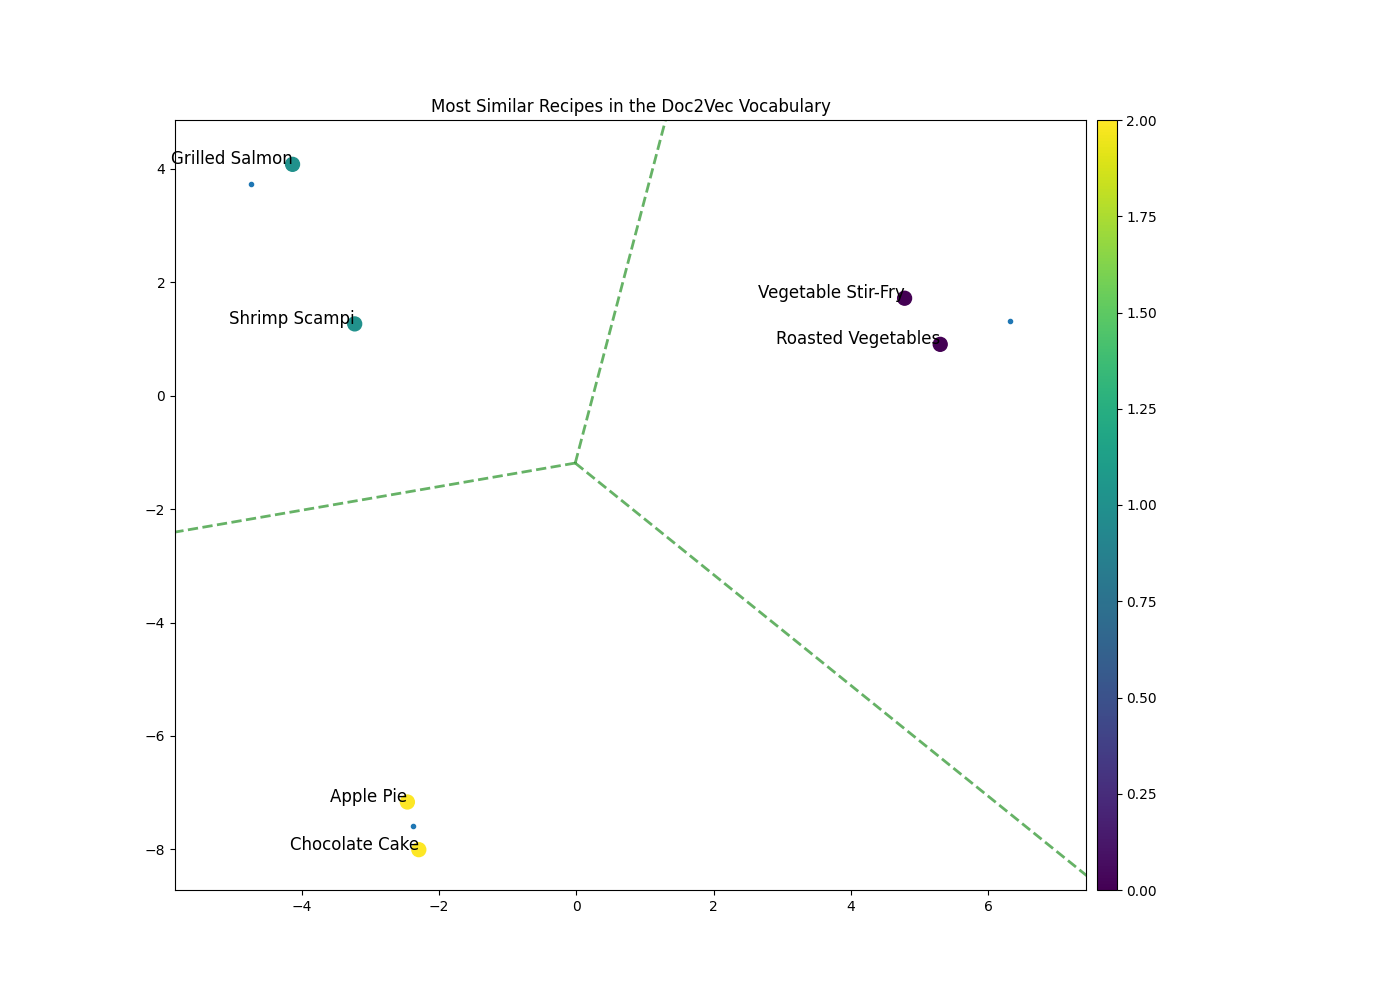
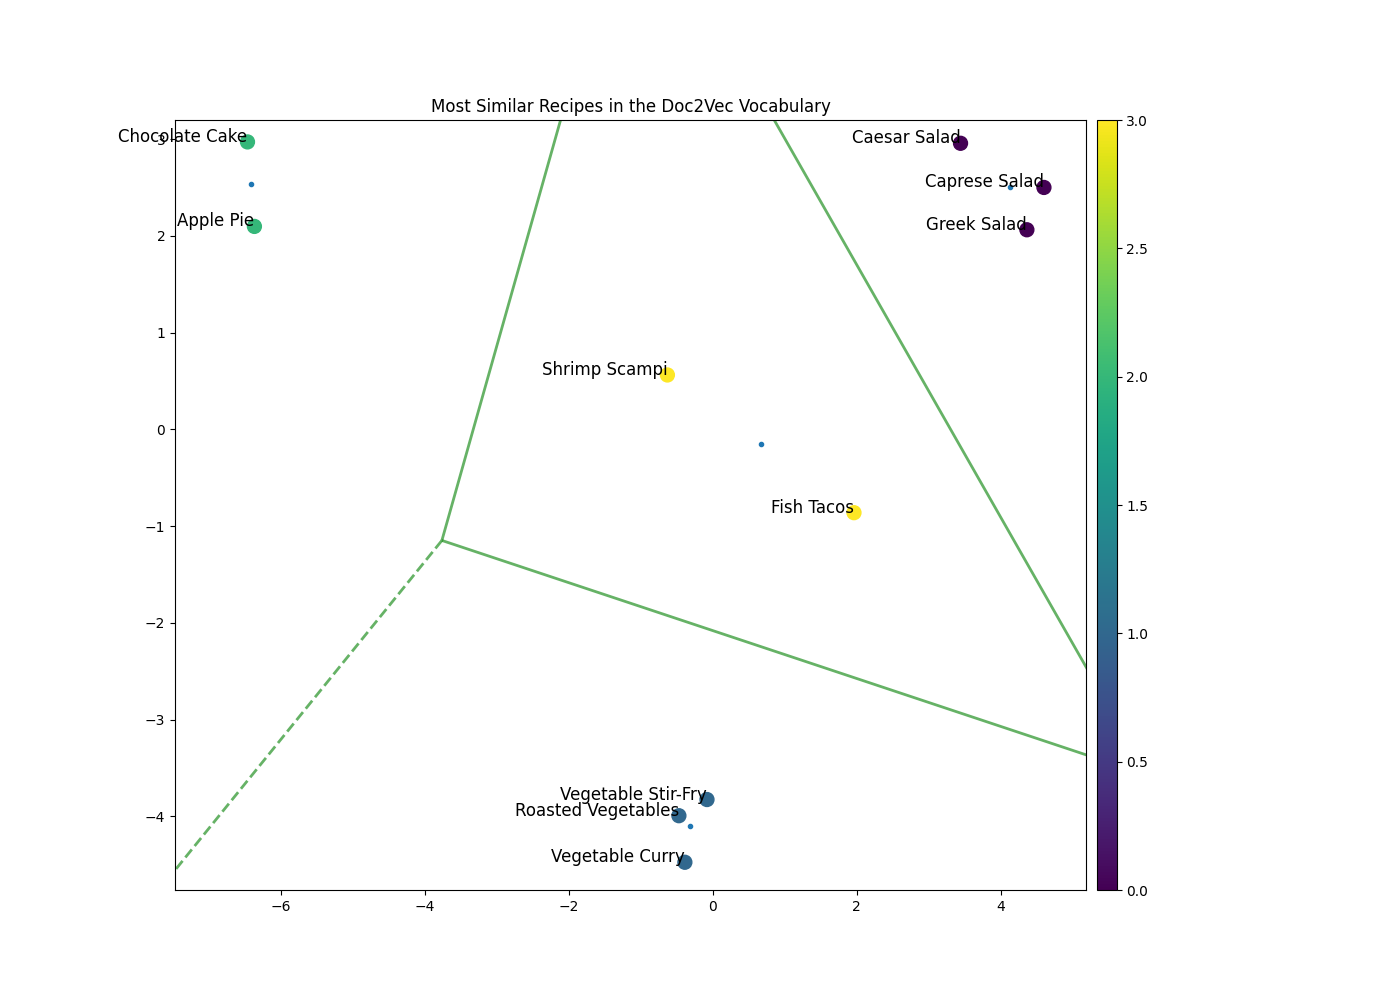
small fixes

diff --git a/main.py b/main.py
@@ -20,19 +20,19 @@ ingredients = [
 ]
 
 recipes = {
-    "Chocolate Cake": ["flour", "sugar", "cocoa powder", "eggs", "butter"],
-    "Apple Pie": ["apples", "sugar", "flour", "butter", "cinnamon"],
-    "Grilled Salmon": ["salmon", "olive oil", "lemon", "garlic", "dill"],
-    "Fish Tacos": ["cod", "tortillas", "cabbage", "lime", "avocado"],
-    "Shrimp Scampi": ["shrimp", "linguine", "butter", "garlic", "lemon"],
-    "Vegetable Stir-Fry": ["bell peppers", "broccoli", "carrots", "snap peas", "onion"],
-    "Roasted Vegetables": ["potatoes", "carrots", "zucchini", "bell peppers", "onion"],
-    "Vegetable Curry": ["potatoes", "cauliflower", "carrots", "bell peppers", "onion"]
+    "Chocolate Cake": process_text(["flour", "sugar", "cocoa powder", "eggs", "butter"]),
+    "Apple Pie": process_text(["apples", "sugar", "flour", "butter", "cinnamon"]),
+    "Caesar Salad": process_text(["lettuce", "parmesan cheese", "croutons", "lemon", "olive oil"]),
+    "Greek Salad": process_text(["cucumbers", "tomatoes", "feta cheese", "olive oil", "oregano"]),
+    "Caprese Salad": process_text(["tomatoes", "mozzarella", "basil leaves", "balsamic vinegar", "olive oil"]),
+    "Fish Tacos": process_text(["cod", "tortillas", "cabbage", "lime", "avocado"]),
+    "Shrimp Scampi": process_text(["shrimp", "linguine", "butter", "garlic", "lemon"]),
+    "Vegetable Stir-Fry": process_text(["bell peppers", "broccoli", "carrots", "snap peas", "onion"]),
+    "Roasted Vegetables": process_text(["potatoes", "carrots", "zucchini", "bell peppers", "onion"]),
+    "Vegetable Curry": process_text(["potatoes", "cauliflower", "carrots", "bell peppers", "onion"])
 }
 
 ingredients = process_text(ingredients)
-
-print(ingredients)
 
 word2vec = get_model("Word2Vec")
 

diff --git a/visualizer.py b/visualizer.py
@@ -62,7 +62,7 @@ def visualize_embeddings_recipes(recipes, model, type):
     pca_result = pca.fit_transform(embeddings)
 
     # Clustering using KMeans
-    n_clusters = 3
+    n_clusters = 4
     kmeans = KMeans(n_clusters=n_clusters)
     kmeans.fit(pca_result)
     clusters = kmeans.labels_
